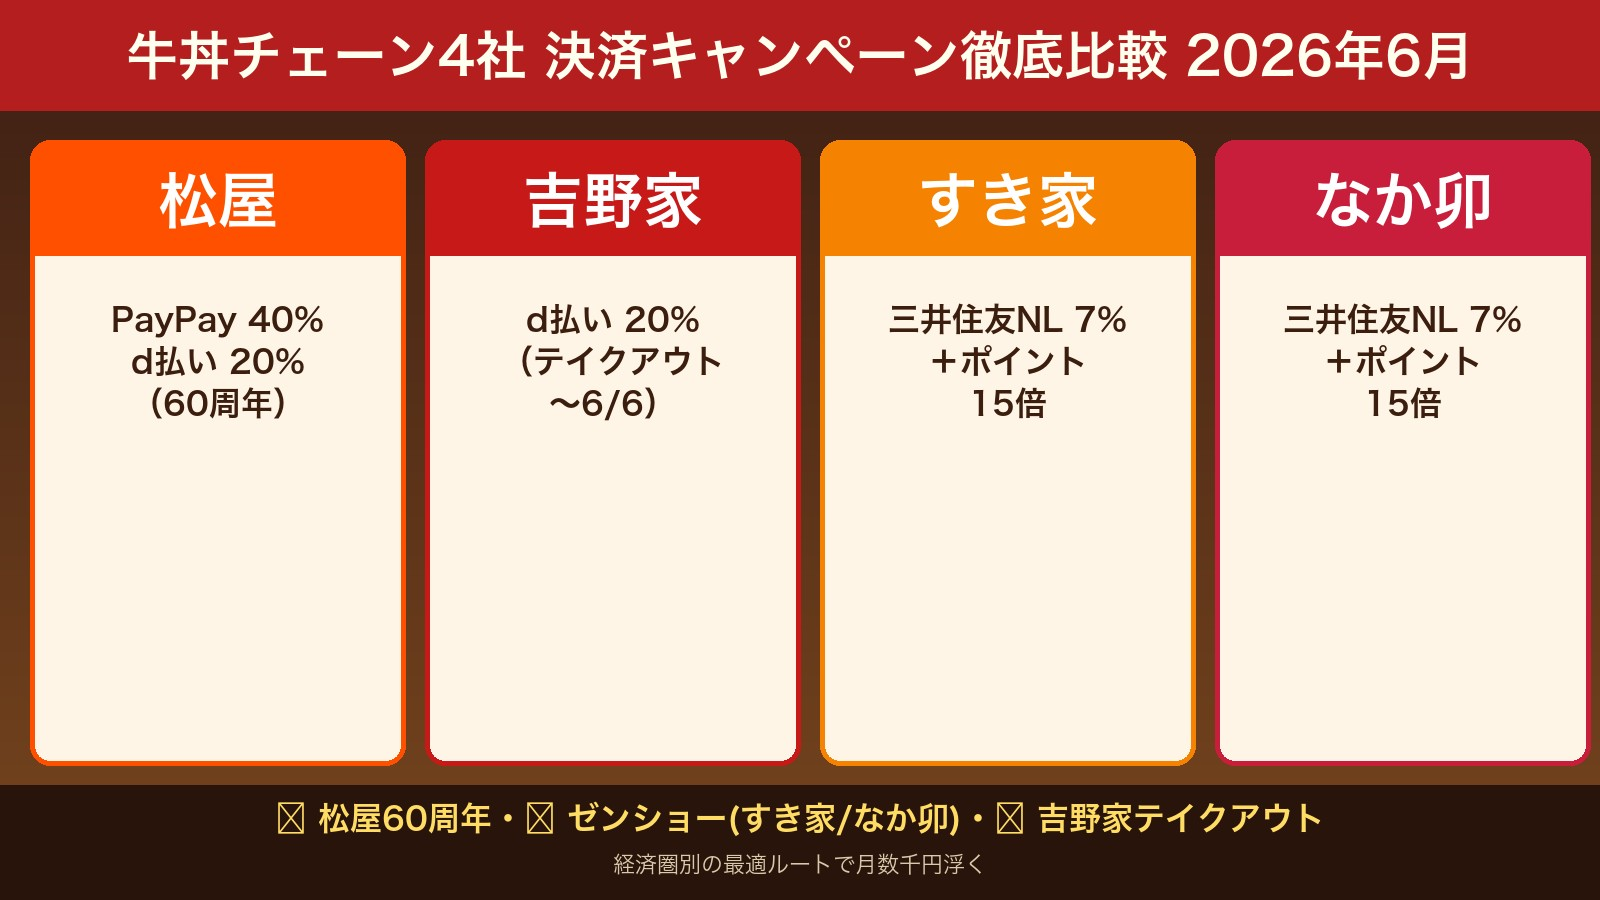
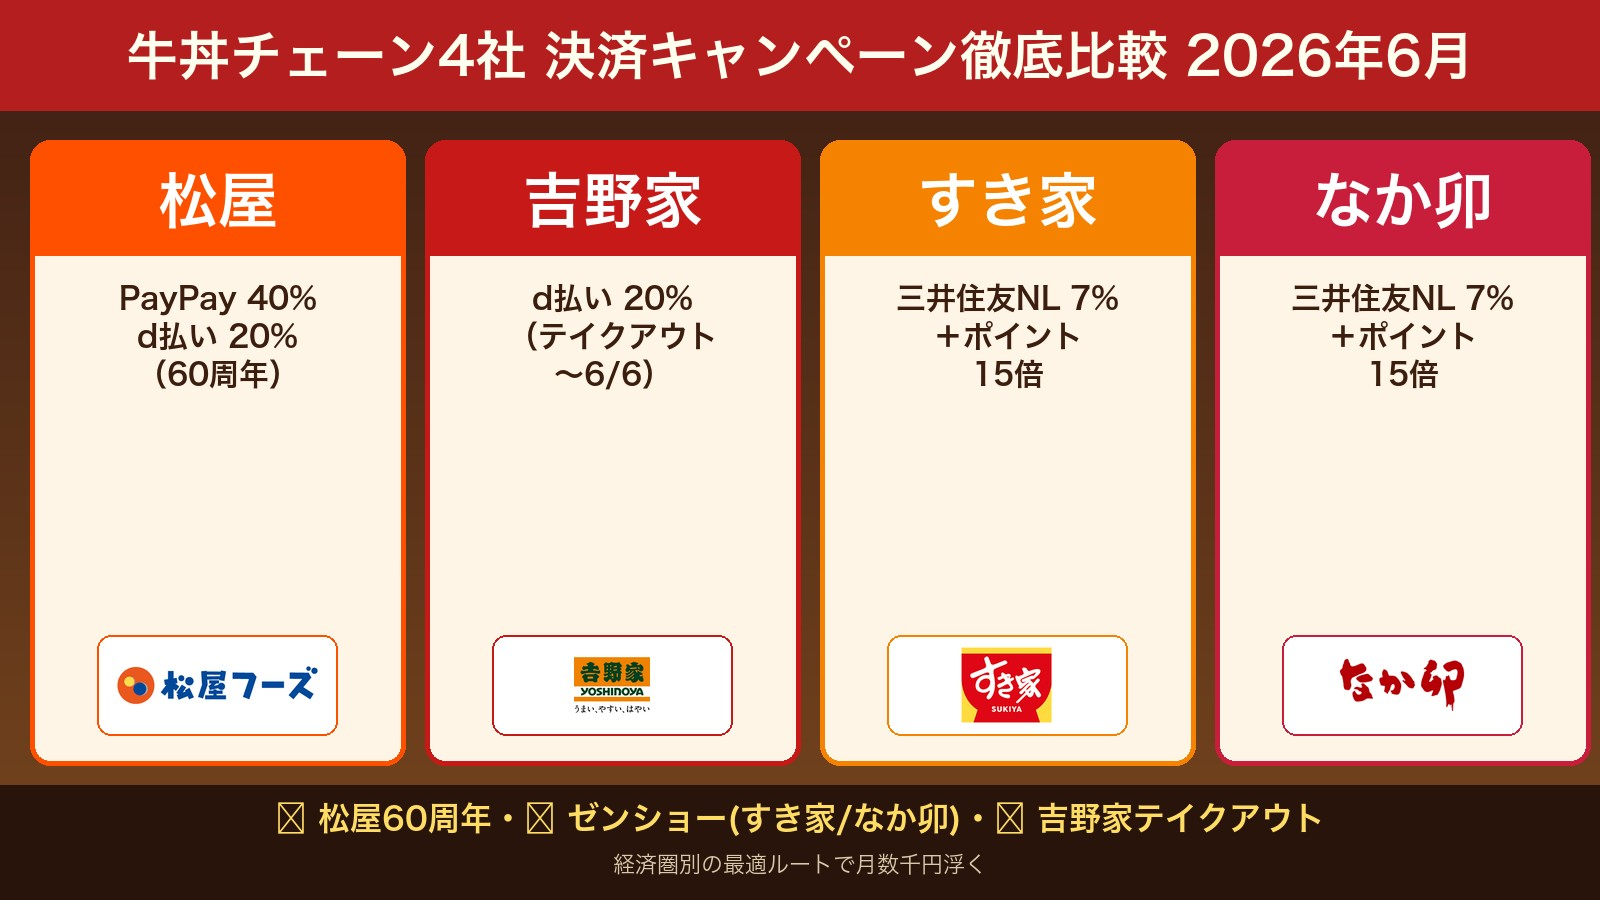
fix(gyudon): eyecatch 各カードに4社ロゴ画像追加
各社公式ロゴ(松屋/吉野家/すき家/なか卯)を取得し、各カード下部に
共通サイズ(240x100)の白ロゴカードで均一配置。サイズ調和済。

diff --git a/scripts/gen-gyudon-eyecatch.py b/scripts/gen-gyudon-eyecatch.py
@@ -30,20 +30,24 @@ def main():
     ft = ImageFont.truetype(FONT, 52)
     d.text((W/2, BAR_TOP/2), "牛丼チェーン4社 決済キャンペーン徹底比較 2026年6月", font=ft, fill=(255,255,240), anchor="mm")
 
-    # 4 cards: 松屋 / 吉野家 / すき家 / なか卯 with brand color + key value
+    # 4 cards: 松屋 / 吉野家 / すき家 / なか卯 with brand color + KV + logo
+    LOGOS = os.path.join(IMGDIR, "logos")
     chains = [
-        ("松屋", (255, 80, 0), "PayPay 40%\nd払い 20%\n（60周年）"),
-        ("吉野家", (200, 25, 25), "d払い 20%\n（テイクアウト\n〜6/6）"),
-        ("すき家", (245, 130, 0), "三井住友NL 7%\n＋ポイント\n15倍"),
-        ("なか卯", (200, 30, 60), "三井住友NL 7%\n＋ポイント\n15倍"),
+        ("松屋", (255, 80, 0), "PayPay 40%\nd払い 20%\n（60周年）", "matsuya.png"),
+        ("吉野家", (200, 25, 25), "d払い 20%\n（テイクアウト\n〜6/6）", "yoshinoya.png"),
+        ("すき家", (245, 130, 0), "三井住友NL 7%\n＋ポイント\n15倍", "sukiya.png"),
+        ("なか卯", (200, 30, 60), "三井住友NL 7%\n＋ポイント\n15倍", "nakau.png"),
     ]
     cw = (W - 100) // 4
     gap = 20
     cy0 = BAR_TOP + 30
     ch = H - BAR_TOP - BAR_BOT - 50
     fchain = ImageFont.truetype(FONT, 60)
-    fkv = ImageFont.truetype(FONT, 32)
-    for i, (name, color, kv) in enumerate(chains):
+    fkv = ImageFont.truetype(FONT, 30)
+
+    # ロゴを共通サイズ 240x100 の white box に fit させて調和
+    LOGO_BOX_W, LOGO_BOX_H = 240, 100
+    for i, (name, color, kv, logo_file) in enumerate(chains):
         x0 = 30 + i * (cw + gap)
         # card
         d.rounded_rectangle([x0, cy0, x0+cw, cy0+ch], 20, fill=(255, 245, 230), outline=color, width=5)
@@ -51,8 +55,25 @@ def main():
         d.rounded_rectangle([x0, cy0, x0+cw, cy0+115], 20, fill=color)
         d.rectangle([x0, cy0+85, x0+cw, cy0+115], fill=color)
         d.text((x0 + cw/2, cy0 + 60), name, font=fchain, fill=(255,255,255), anchor="mm")
-        # kv text (3 lines)
-        d.multiline_text((x0 + cw/2, cy0 + 220), kv, font=fkv, fill=(60,30,15), anchor="mm", align="center", spacing=12)
+        # KV text (3 lines)
+        d.multiline_text((x0 + cw/2, cy0 + 195), kv, font=fkv, fill=(60,30,15), anchor="mm", align="center", spacing=10)
+        # ロゴカード（共通サイズで調和）
+        logo_x = x0 + (cw - LOGO_BOX_W) // 2
+        logo_y = cy0 + ch - LOGO_BOX_H - 30
+        d.rounded_rectangle([logo_x, logo_y, logo_x+LOGO_BOX_W, logo_y+LOGO_BOX_H], 14, fill=(255,255,255), outline=color, width=2)
+        lg_path = os.path.join(LOGOS, logo_file)
+        if os.path.exists(lg_path):
+            lg = Image.open(lg_path).convert("RGBA")
+            # 白背景を透過扱いに（RGB ロゴは枠に対し白パッチが目立たないようそのまま）
+            pad = 12
+            maxw, maxh = LOGO_BOX_W - pad*2, LOGO_BOX_H - pad*2
+            lg.thumbnail((maxw, maxh), Image.LANCZOS)
+            paste_x = logo_x + (LOGO_BOX_W - lg.width) // 2
+            paste_y = logo_y + (LOGO_BOX_H - lg.height) // 2
+            if lg.mode == "RGBA":
+                img.paste(lg, (paste_x, paste_y), lg)
+            else:
+                img.paste(lg, (paste_x, paste_y))
 
     # bottom subtitle bar
     d.rectangle([0, H - BAR_BOT, W, H], fill=(40, 20, 10))
